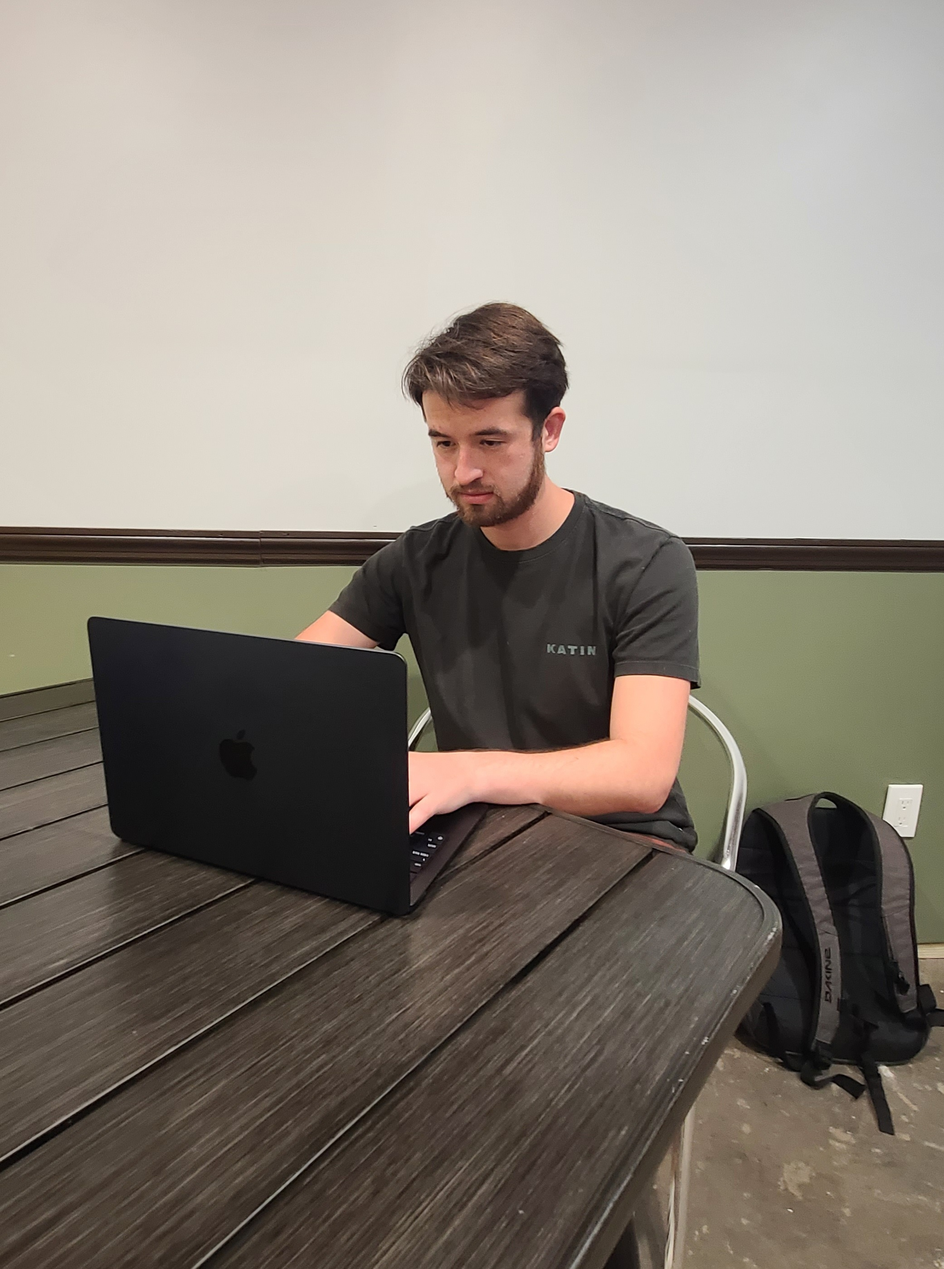
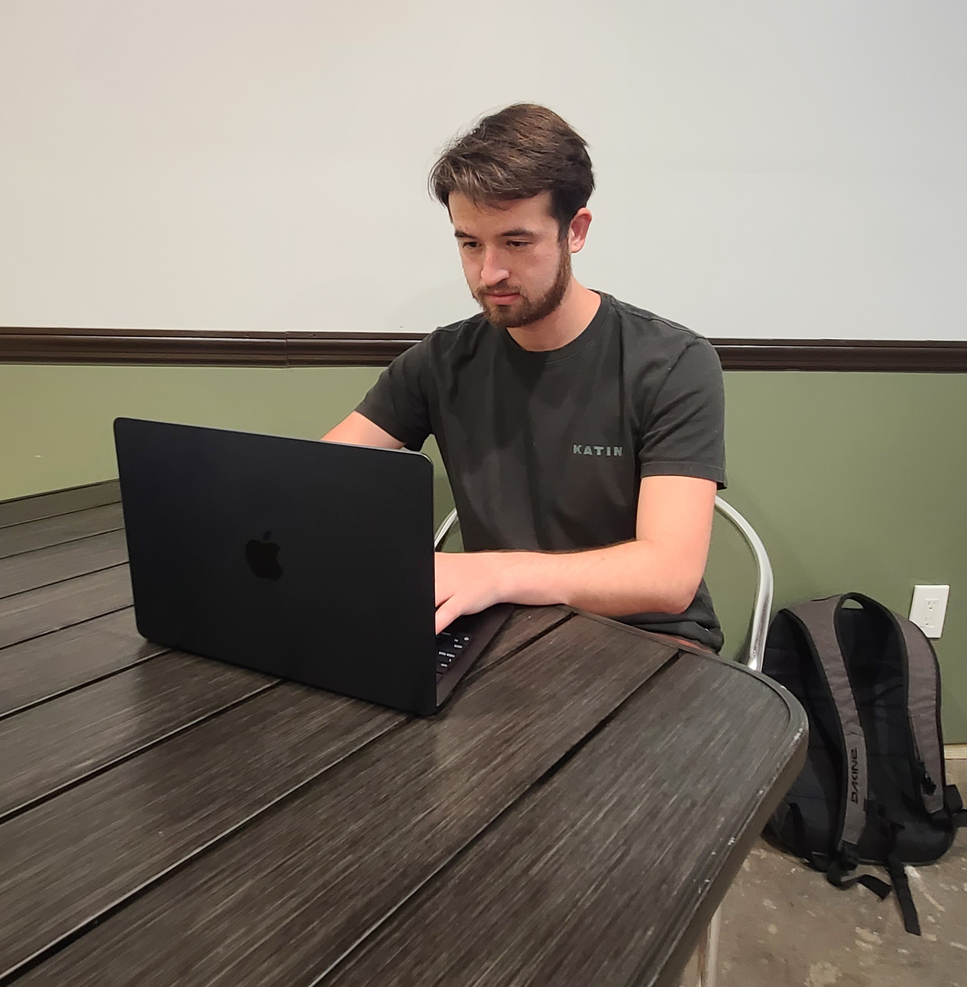
updated photo and css for image

diff --git a/client/src/components/pages/About.js b/client/src/components/pages/About.js
@@ -9,7 +9,7 @@ export default function About() {
         <div className=" mt-3 pt-2 rounded container-md container-sm  mx-auto text-center justify-content-center backgroundWhite"
          >
           <div className='pt-4'>
-          <img className="rounded box-shadow-dreamy mb-2 img-fluid mx-auto coffeeImg" src={coffeeImage}
+          <img className="rounded box-shadow-dreamy mb-2 mx-auto coffeeImg" src={coffeeImage}
             alt='Me holding a coffee'></img>
           </div>
             <div className="col-md-7 pb-4 mx-auto mb-3 ">

diff --git a/client/src/App.css b/client/src/App.css
@@ -56,6 +56,6 @@
 font-size: 2.5em;
 }
 .coffeeImg{
-    max-width: 50%;
+    max-width: 55%;
     height: auto;
 }
